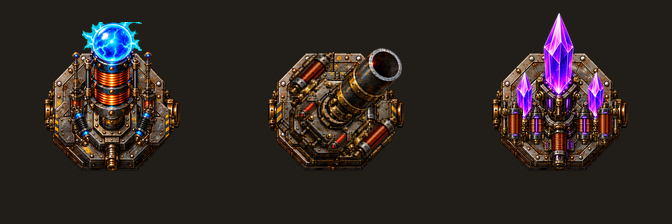
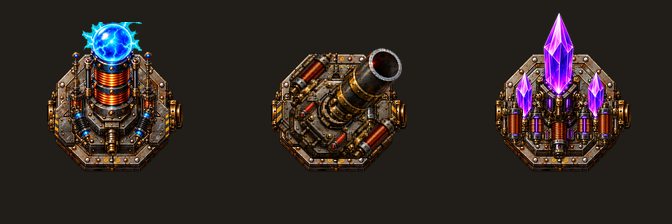
Dynamo Defense: make tower subplatform outlines concentric with main pads

diff --git a/docs/towerdefense/concept/codex/towers/build.py b/docs/towerdefense/concept/codex/towers/build.py
@@ -71,7 +71,7 @@ def mounted(source, dimensions, center=CENTER):
 
 
 def socket_mounted(source, dimensions, socket, target=CENTER):
-    """Place an anatomical socket, not the image rectangle, at the pad center."""
+    """Register an authored source point without letting attachments skew it."""
     box = source.getbbox()
     assert box is not None
     source = source.crop(box)
@@ -85,6 +85,21 @@ def socket_mounted(source, dimensions, socket, target=CENTER):
     canvas.alpha_composite(source.resize(size, RESAMPLE), origin)
     actual = [origin[0] + anchor[0], origin[1] + anchor[1]]
     return canvas, actual
+
+
+def outline_mounted(source, dimensions, bounds):
+    """Center the octagonal body, excluding nozzles, struts and forward fittings."""
+    source_center = ((bounds[0] + bounds[2]) / 2, (bounds[1] + bounds[3]) / 2)
+    canvas, actual = socket_mounted(source, dimensions, source_center)
+    box = source.getbbox()
+    width, height = box[2] - box[0], box[3] - box[1]
+    scale = min(dimensions[0] / width, dimensions[1] / height)
+    sx, sy = max(1, round(width * scale)) / width, max(1, round(height * scale)) / height
+    mapped_bounds = [actual[0] + (bounds[0] - source_center[0]) * sx,
+                     actual[1] + (bounds[1] - source_center[1]) * sy,
+                     actual[0] + (bounds[2] - source_center[0]) * sx,
+                     actual[1] + (bounds[3] - source_center[1]) * sy]
+    return canvas, actual, mapped_bounds
 
 
 def pair(source, level, tower):
@@ -194,7 +209,10 @@ def build(output):
     sheets = {t: Image.open(HERE / 'raw' / f'{t}-sheet-v2-raw.png') for t in BOXES}
     sources = {t: [key(sheet.crop(box)) for box in BOXES[t]] for t, sheet in sheets.items()}
     pad_source = Image.open(HERE / 'raw' / 'tesla-sheet-raw.png').crop((15, 100, 420, 480))
-    pad = save_part(output, '', 'pad', mounted(key(pad_source), (136, 136)), None, 0)
+    pad_canvas, outline_center, bounds = outline_mounted(key(pad_source), (136, 136), (37, 30, 356, 359))
+    pad = save_part(output, '', 'pad', pad_canvas, None, 0)
+    pad['outlineCenter'] = outline_center
+    pad['outlineBounds'] = bounds
     pad['file'] = '../parts/pad.png'
     pad['glow'] = '../parts/pad_glow.png'
     for tower, parts in sources.items():
@@ -207,10 +225,12 @@ def build(output):
         else:
             base, head, upgrades = parts[0], parts[1], parts[2:]
         entries = [dict(pad)]
-        base_socket = {'tesla': (200, 128), 'mortar': (243, 201), 'prism': (250, 179)}[tower]
-        base_canvas, mount = socket_mounted(base, (106, 104), base_socket)
+        base_bounds = {'tesla': (45, 32, 355, 332), 'mortar': (41, 23, 449, 438),
+                       'prism': (42, 38, 459, 420)}[tower]
+        base_canvas, outline_center, bounds = outline_mounted(base, (106, 104), base_bounds)
         base_part = save_part(output, tower, 'base', base_canvas, 'pad', 10)
-        base_part['mountPosition'] = mount
+        base_part['outlineCenter'] = outline_center
+        base_part['outlineBounds'] = bounds
         entries.append(base_part)
         dimensions, head_socket = {'tesla': ((64, 96), (290, 870)),
                                    'mortar': ((82, 80), (183, 150)),
@@ -406,6 +426,28 @@ def preview(output):
     for i, tower in enumerate(BOXES):
         neutral.alpha_composite(render(output / tower, 5, 45, glows=False)[0], (i * SIZE, 0))
     neutral.convert('RGB').save(HERE / 'glow-off.png', optimize=True)
+    alignment = Image.new('RGBA', (840, 590), GROUND)
+    draw = ImageDraw.Draw(alignment)
+    for col, tower in enumerate(BOXES):
+        directory = output / tower
+        manifest = read_manifest(str(directory / 'manifest.json'))
+        for row in range(2):
+            x, y = 100 + col * 240, 40 + row * 270
+            draw.text((x + 72, y - 24), tower.upper(), font=font, fill='#e6daca')
+            for part in manifest['parts']:
+                if part['name'] in ('pad', 'base'):
+                    alignment.alpha_composite(read_png(str(directory / part['file'])),
+                                              (x + part['offset'][0], y + part['offset'][1]))
+                    if row:
+                        box = part['outlineBounds']
+                        draw.rectangle((x + box[0], y + box[1], x + box[2], y + box[3]),
+                                       outline='#55caca' if part['name'] == 'pad' else '#efbf66')
+            if row:
+                draw.line((x + CENTER[0], y + 30, x + CENTER[0], y + 196), fill='#ffffff')
+                draw.line((x + 30, y + CENTER[1], x + 196, y + CENTER[1]), fill='#ffffff')
+        draw.text((10, 135), 'EXPOSED', font=font, fill='#e6daca')
+        draw.text((10, 405), 'GUIDES', font=font, fill='#e6daca')
+    alignment.convert('RGB').save(HERE / 'alignment.png', optimize=True)
 
 
 def document(output):
@@ -419,8 +461,9 @@ codex/td-towers-work is based on towerdefense-concept-art.
 FILES.txt enumerates every actual production file, including this note.
 manifest.json indexes one manifest each for Tesla, Mortar and Prism.
 Offsets, pivots, mountPosition and anchors use the 224x224 assembled rest frame.
-The pad and main mounting points share [112,112]; placement uses source sockets,
-not image bounding-box centers. The 136px pad remains 2x a 68px game footprint.
+Pad/subplatform outline centers and weapon mounts share [112,112]. Center the
+octagonal bodies by outlineBounds, excluding sockets and side fittings; anchor
+weapons by their feet. The 136px pad remains 2x a 68px game footprint.
 Four clear pixels pad every part and every effect frame.
 Include all parts with minLevel <= level; upgrades are cumulative through L5.
 Every part has a same-canvas _glow.png; unlit parts have clear emissive layers.
@@ -441,7 +484,7 @@ preview.png is rendered from the actual manifests and PNGs on #211d19:
 L1/L3/L5 passive, glow peak and attack for Tesla/Prism; 0/45/180-degree Mortar
 and matching recoil poses. Each cell includes a 68px-footprint reduction.
 Working files include passive/attack GIFs and their same-time comparison.
-Validation covers 480 aiming/recoil poses, 300 animation samples, socket centering,
+Validation covers 480 aiming/recoil poses, 300 animation samples, concentric outlines,
 fixed-rig invariance, glow/effect canvases, visible upgrades, clipping and budget.
 The full production directory is below 1.5MB. No game code changed.
 The concept's steep overhead depth is retained; only Mortar uses 2D aiming rotation.
@@ -455,7 +498,7 @@ Rebuild with python -B build.py --output PATH in the working folder.
 
 def verify(output):
     registry = json.loads((output / 'manifest.json').read_text())
-    report = {'posesChecked': 0, 'animationFramesChecked': 0, 'towers': {}, 'errors': []}
+    report = {'posesChecked': 0, 'animationFramesChecked': 0, 'platformPairsChecked': 0, 'towers': {}, 'errors': []}
     for tower, path in registry['towers'].items():
         directory = (output / path).parent
         manifest = json.loads((directory / 'manifest.json').read_text())
@@ -467,6 +510,11 @@ def verify(output):
             assert len(p['offset']) == len(p['pivot']) == 2
             if 'mountPosition' in p:
                 assert np.allclose(p['mountPosition'], CENTER, atol=0.51), 'Socket is off center'
+            if 'outlineBounds' in p:
+                x0, y0, x1, y1 = p['outlineBounds']
+                center = [(x0 + x1) / 2, (y0 + y1) / 2]
+                assert np.allclose(center, p['outlineCenter'])
+                assert np.allclose(center, CENTER, atol=0.51), 'Octagonal outline is off center'
             base = Image.open(directory / p['file']).convert('RGBA')
             glow = Image.open(directory / p['glow']).convert('RGBA')
             assert base.size == glow.size
@@ -478,6 +526,8 @@ def verify(output):
             assert not np.any((pixels[..., 3] > 0) & (pixels[..., 1] > np.maximum(pixels[..., 0], pixels[..., 2]) + 4))
             assert np.all(np.asarray(glow)[..., 3] <= alpha)
         counts = []
+        assert np.allclose(parts['base']['outlineCenter'], parts['pad']['outlineCenter'], atol=1), 'Subplatform is not concentric'
+        report['platformPairsChecked'] += 1
         for level in range(1, 6):
             counts.append(sum(p['minLevel'] <= level for p in parts.values()))
             for angle in range(0, 360, 15):

diff --git a/docs/towerdefense/concept/codex/towers/NOTES.md b/docs/towerdefense/concept/codex/towers/NOTES.md
@@ -11,10 +11,10 @@ crystalline passive/attack VFX, four frames per state. No machinery in those she
 reference-towers.png: original copied unchanged from codex/towerdefense-concept-art,
 docs/towerdefense/concept/codex/td-towers-base.png; absent from towerdefense-concept-art.
 generation.md records source provenance and instructions for every raw sheet.
-build.py: key/despill/crop, anatomical socket placement, parts/glow/VFX export,
+build.py: key/despill/crop, octagonal outline and weapon socket placement, PNG export,
 manifest-driven aiming, recoil, time-keyed emission and additive-effect rendering.
 requirements.txt: Pillow/NumPy; no runtime game dependencies or game changes.
-validation.json: 480 aiming/recoil poses plus 300 animation samples; centered sockets,
+validation.json: 480 aiming/recoil poses plus 300 animation samples; concentric outlines,
 fixed Tesla/Prism geometry, frame padding, upgrades, clipping, anchors and size budget.
 glow-off.png: L5 rigs without emission (only Mortar aims to 45 degrees).
 animate.py: reproduce GIFs with python -B animate.py.
@@ -24,14 +24,14 @@ animations/towers-behavior.gif: same-time L5 passive versus attack comparison.
 animations/towers-rotation.gif: compatibility copy of towers-attack.gif.
 animations/towers-upgrades.gif: cumulative L1–L5 upgrades with corrected behavior.
 compare.py/comparison.png: original concept, first pass and current centered rigs.
-revised-lineup.png: current L1/L5 rigs at rest.
+revised-lineup.png: current L1/L5 rigs at rest. alignment.png exposes pad/base outlines.
 export/: exact production folder, with its own NOTES.md and FILES.txt inventory.
 export/preview.png: passive/peak/attack states for Tesla/Prism; Mortar angles/recoil;
 each pose includes a 68px-footprint reduction. FX strips live in export/*/effects/.
 
 Rebuild: python -B build.py --output /workspace/wattcade/public/td/towers
 Recheck: add --verify-only. The 224px rest frame has transparent headroom;
-136px pad diameter remains 2x 68px. All main sockets coincide with pad [112,112].
+136px pad remains 2x 68px. Pad/subplatform outlines and weapon mounts share [112,112].
 Only Mortar has aiming enabled; Tesla/Prism body parts and upgrades remain fixed.
 The concept's steep overhead depth is retained, rather than strict orthographic.
 No baked ground shadows. Passive loops 1600ms; attack is a 640ms one-shot.

diff --git a/docs/towerdefense/concept/codex/towers/export/NOTES.md b/docs/towerdefense/concept/codex/towers/export/NOTES.md
@@ -8,8 +8,9 @@ codex/td-towers-work is based on towerdefense-concept-art.
 FILES.txt enumerates every actual production file, including this note.
 manifest.json indexes one manifest each for Tesla, Mortar and Prism.
 Offsets, pivots, mountPosition and anchors use the 224x224 assembled rest frame.
-The pad and main mounting points share [112,112]; placement uses source sockets,
-not image bounding-box centers. The 136px pad remains 2x a 68px game footprint.
+Pad/subplatform outline centers and weapon mounts share [112,112]. Center the
+octagonal bodies by outlineBounds, excluding sockets and side fittings; anchor
+weapons by their feet. The 136px pad remains 2x a 68px game footprint.
 Four clear pixels pad every part and every effect frame.
 Include all parts with minLevel <= level; upgrades are cumulative through L5.
 Every part has a same-canvas _glow.png; unlit parts have clear emissive layers.
@@ -30,7 +31,7 @@ preview.png is rendered from the actual manifests and PNGs on #211d19:
 L1/L3/L5 passive, glow peak and attack for Tesla/Prism; 0/45/180-degree Mortar
 and matching recoil poses. Each cell includes a 68px-footprint reduction.
 Working files include passive/attack GIFs and their same-time comparison.
-Validation covers 480 aiming/recoil poses, 300 animation samples, socket centering,
+Validation covers 480 aiming/recoil poses, 300 animation samples, concentric outlines,
 fixed-rig invariance, glow/effect canvases, visible upgrades, clipping and budget.
 The full production directory is below 1.5MB. No game code changed.
 The concept's steep overhead depth is retained; only Mortar uses 2D aiming rotation.

diff --git a/docs/towerdefense/concept/codex/towers/generation.md b/docs/towerdefense/concept/codex/towers/generation.md
@@ -100,3 +100,15 @@ exec-81a22a3e-8edc-469d-b148-0102c53ee61e.png is retained as raw/prism-effects-r
 The effect strips preserve source cell origins for stable registration. Body
 glow is time-keyed from the exported emissive masks; generated effects use
 premultiplied additive compositing. No procedural replacement arc art is drawn.
+
+## Concentric subplatform correction
+
+No new art was generated or retouched. The user identified that static base
+plates were still offset even after their sockets were aligned. Main pad and
+subplatform placement now registers the center of authored octagonal outline
+bounds, excluding asymmetrical nozzles, forward fittings and sockets. Weapon
+feet retain their centered attachment points; animation behavior is unchanged.
+The exact source outline bounds are recorded in build.py; transformed bounds
+and outlineCenter are exported in the corresponding manifest parts. alignment.png
+shows the actual pad/base cutouts without heads, with a second row of outline
+bounds and centerlines for direct inspection.
